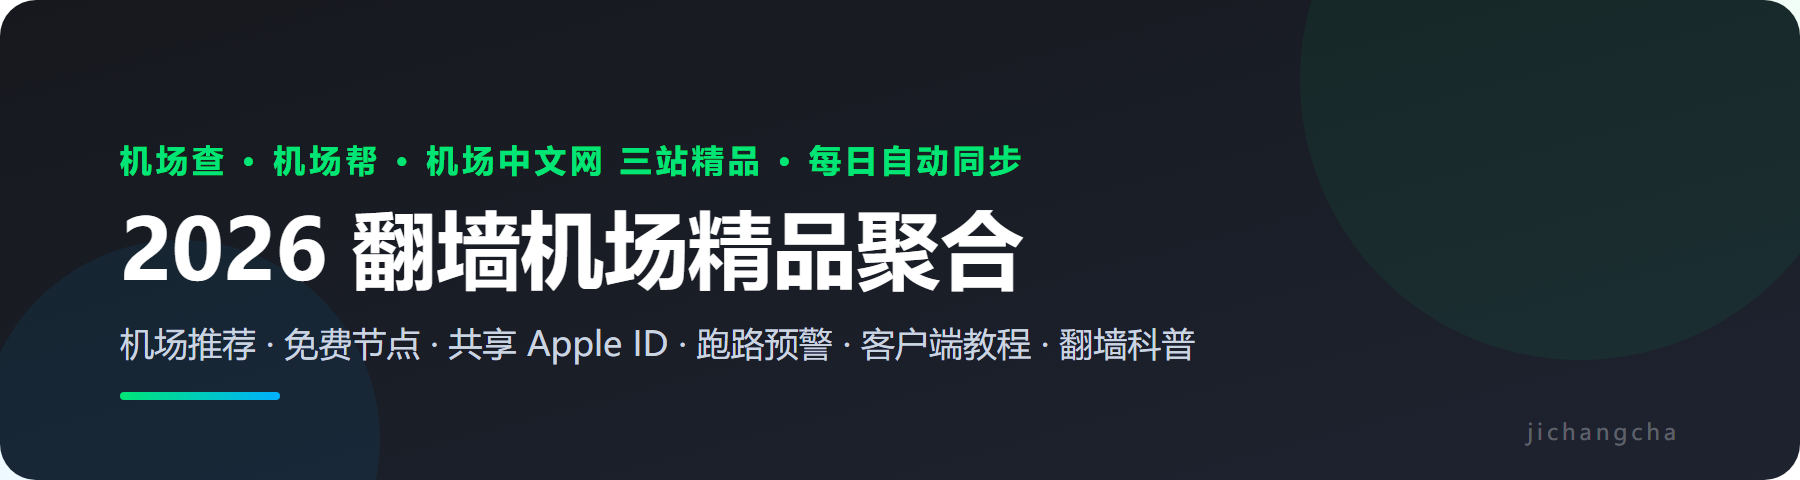
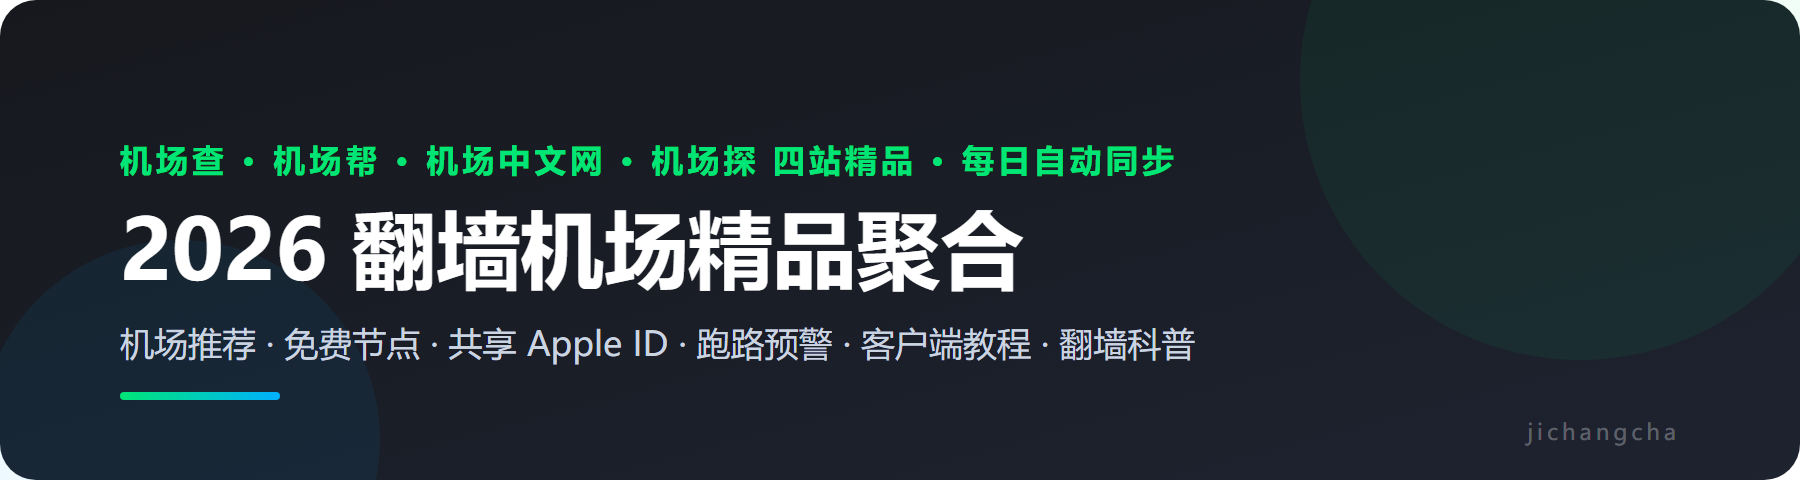
docs: 主页升级为四站精品聚合,接入机场探

Changed region(s): [[0.3422, 0.2812, 0.6533, 0.375]]

diff --git a/README.md b/README.md
@@ -1,10 +1,10 @@
-# 机场推荐 · 免费节点 · 共享 Apple ID · 跑路预警 · 客户端教程 · 翻墙科普｜机场科普与快讯
+# 机场推荐 · 免费节点 · 共享 Apple ID · 跑路预警 · 客户端教程 · 翻墙科普｜四站精品聚合
 
 ![更新](https://img.shields.io/badge/%E6%9B%B4%E6%96%B0-2026--09--16-00e676) ![收录机场](https://img.shields.io/badge/%E6%94%B6%E5%BD%95%E6%9C%BA%E5%9C%BA-32%20%E5%AE%B6-00b0ff) ![今日免费节点](https://img.shields.io/badge/%E4%BB%8A%E6%97%A5%E5%85%8D%E8%B4%B9%E8%8A%82%E7%82%B9-%E7%BA%A6%20319%20%E4%B8%AA-00b0ff) ![共享 Apple ID](https://img.shields.io/badge/%E5%85%B1%E4%BA%AB%20Apple%20ID-30%20%E4%B8%AA-fbbf24) ![跑路预警](https://img.shields.io/badge/%E8%B7%91%E8%B7%AF%E9%A2%84%E8%AD%A6-99%20%E6%9D%A1-f87171) [![Telegram](https://img.shields.io/badge/Telegram-%40jichangcha-26A5E4?logo=telegram&logoColor=white)](https://t.me/jichangcha)
 
 ![2026 翻墙机场精品聚合](banner.png)
 
-这里汇总 **机场查 jichangcha.com、机场帮 jichanghelp.com、机场中文网 jichangcnweb.com** 三个站和 GitHub 仓库里最值得收藏的页面,按七个板块整理。数字、最新文章每天由 GitHub Actions 自动同步,更新日期见顶部徽章。
+这里汇总 **机场查 jichangcha.com、机场帮 jichanghelp.com、机场中文网 jichangcnweb.com、机场探 jichangtan.com** 四个站和 GitHub 仓库里最值得收藏的页面,按七个板块整理。数字、最新文章每天由 GitHub Actions 自动同步,更新日期见顶部徽章。
 
 <a name="repos"></a>
 ## 📦 GitHub 仓库导航
@@ -16,23 +16,24 @@
 | 🍎 [share-apple-id](https://github.com/jichangx/share-apple-id) | 每日共享 Apple ID:免费外区(美区)苹果 ID,小火箭下载可用,每天更新 | 机场中文网 | [![Stars](https://img.shields.io/github/stars/jichangx/share-apple-id?style=social)](https://github.com/jichangx/share-apple-id/stargazers) |
 | 🚨 [airport-status](https://github.com/jichangx/airport-status) | 全网最全最新的机场跑路预警名单,每日更新,下单前先查这家是否跑路 | 机场中文网 | [![Stars](https://img.shields.io/github/stars/jichangx/airport-status?style=social)](https://github.com/jichangx/airport-status/stargazers) |
 | 🥇 [xingdaomeng-jichang](https://github.com/jichangx/xingdaomeng-jichang) | 星岛梦机场怎么样:套餐价格、节点测速、解锁与线路评测 | 机场中文网 | [![Stars](https://img.shields.io/github/stars/jichangx/xingdaomeng-jichang?style=social)](https://github.com/jichangx/xingdaomeng-jichang/stargazers) |
-| 🥈 [jichang-kehuduan](https://github.com/jichangx/jichang-kehuduan) | 全网最全的机场客户端收集 / 下载 / 图文教程 / 客户端科普与快讯(站点上线后同步,敬请期待) | 机场探 | [![Stars](https://img.shields.io/github/stars/jichangx/jichang-kehuduan?style=social)](https://github.com/jichangx/jichang-kehuduan/stargazers) |
+| 🥈 [jichang-kehuduan](https://github.com/jichangx/jichang-kehuduan) | 全网最全的机场客户端收集 / 下载 / 图文教程 / 客户端科普与快讯,90 多款按平台分类,每日同步 | 机场探 | [![Stars](https://img.shields.io/github/stars/jichangx/jichang-kehuduan?style=social)](https://github.com/jichangx/jichang-kehuduan/stargazers) |
 | 📚 [fanqiang-kepu](https://github.com/jichangx/fanqiang-kepu) | 翻墙科普攻略:原理、线路、故障排查、避坑与 AI 工具,每日同步栏目 | 机场中文网 | [![Stars](https://img.shields.io/github/stars/jichangx/fanqiang-kepu?style=social)](https://github.com/jichangx/fanqiang-kepu/stargazers) |
-| 📰 [jichang-kepu-kuaixun](https://github.com/jichangx/jichang-kepu-kuaixun) | 机场科普与快讯:机场杂谈与最新动态,每日同步(机场探上线后合并) | 机场帮 · 机场探 | [![Stars](https://img.shields.io/github/stars/jichangx/jichang-kepu-kuaixun?style=social)](https://github.com/jichangx/jichang-kepu-kuaixun/stargazers) |
+| 📰 [jichang-kepu-kuaixun](https://github.com/jichangx/jichang-kepu-kuaixun) | 机场科普与快讯:机场杂谈、协议与内核科普、客户端版本动态,每日同步 | 机场帮 · 机场探 | [![Stars](https://img.shields.io/github/stars/jichangx/jichang-kepu-kuaixun?style=social)](https://github.com/jichangx/jichang-kepu-kuaixun/stargazers) |
 
 品牌测评仓库:[feimao](https://github.com/jichangx/feimao-jichang) · [weitu](https://github.com/jichangx/weitu-jichang) · [yuzhou](https://github.com/jichangx/yuzhou-jichang) · [guangsu](https://github.com/jichangx/guangsu-jichang) · [u1s1](https://github.com/jichangx/u1s1-jichang) · [jilian](https://github.com/jichangx/jilian-jichang) · [quanqiu](https://github.com/jichangx/quanqiu-jichang) · [guangnian](https://github.com/jichangx/guangnian-jichang) · [yifan](https://github.com/jichangx/yifan-jichang) · [ermao](https://github.com/jichangx/ermao-jichang) · [sogo](https://github.com/jichangx/sogo-jichang) · [edgenova](https://github.com/jichangx/edgenova-jichang) · [kexin](https://github.com/jichangx/kexin-jichang) · [sujie](https://github.com/jichangx/sujie-jichang) · [kuaili](https://github.com/jichangx/kuaili-jichang)
 
-**三个站各管什么**
+**四个站各管什么**
 
 | 站点 | 定位 | 招牌内容 |
 | ---- | ---- | ---- |
 | [机场查 jichangcha.com](https://www.jichangcha.com/) | 机场品牌库与每日数据 | 32 家机场资料页与对比总表 · 每日免费节点 · 共享 Apple ID · 跑路预警 · 189 题问题库 |
 | [机场帮 jichanghelp.com](https://www.jichanghelp.com/) | 机场导航与客户端百科 | 按地区收录的机场导航总表 · 老牌 / 性价比 / 稳定 / 高端四类精选 · 30 款客户端下载与配置 · 术语库 · 故障排查 |
 | [机场中文网 jichangcnweb.com](https://jichangcnweb.com/) | 评测、优惠码与避坑 | 机场评测与优惠码中心 · 20 多篇带截图的客户端教程 · 跑路迹象与避坑指南 · AI 工具攻略 |
+| [机场探 jichangtan.com](https://jichangtan.com/) | 每日测速观察与客户端库 | 今日机场观察与四类推荐 · 90 多款客户端按设备平台分类,官方下载与图文教程 · 协议 / 内核科普 · 客户端版本快讯 · 跑路预警讨论 |
 
 **快速导航**:[🏆 2026 机场推荐](#tuijian) · [🆓 每日免费节点](#free-nodes) · [🍎 每日共享 Apple ID](#apple-id) · [🚨 跑路机场预警](#status) · [📱 2026 最全客户端下载与教程](#clients) · [📚 翻墙科普攻略](#guide) · [📰 机场科普与快讯](#news) · [📦 GitHub 仓库](#repos)
 
-> ⚠ 三个站都区分「站长实测」「官方资料」「公开反馈」与「尚未核验」,推广链接会明示;第一次买机场先月付,任何订阅链接都别外泄。
+> ⚠ 四个站都区分「站长实测」「官方资料」「公开反馈」与「尚未核验」,推广链接会明示;第一次买机场先月付,任何订阅链接都别外泄。
 
 <a name="tuijian"></a>
 ## 🏆 2026 机场推荐
@@ -47,6 +48,8 @@
 - `机场查` [机场品牌库](https://www.jichangcha.com/brands/) —— 每家一个资料页:套餐、优惠、资料口径与实测记录
 - `机场中文网` [2026 机场推荐:稳定、便宜、专线机场整理](https://jichangcnweb.com/airports/) —— 按月更新的筛选表
 - `机场中文网` [机场优惠码大全](https://jichangcnweb.com/coupons/) —— 可用折扣码、适用范围与核验日期
+- `机场探` [今日机场观察与推荐](https://jichangtan.com/) —— 每日测速观察,速度、稳定性、解锁与价格
+- `机场探` [机场详情与套餐](https://jichangtan.com/airports/) —— 每家一页
 
 **按需求挑**
 
@@ -61,6 +64,7 @@
 - `机场中文网` [飞猫云 vs 星岛梦,两家低价专线怎么选](https://jichangcnweb.com/compare/feimaoyun-vs-xingdaomeng/)
 - `机场中文网` [机场推荐专题:按需求选,不看排名看匹配](https://jichangcnweb.com/recommend/)
 - `机场帮` [机场导航总表:按地区收录](https://www.jichanghelp.com/airport-navigation/) —— 收录 41 家品牌
+- `机场探` [性价比 / 老牌 / 高端 / 稳定机场推荐](https://jichangtan.com/recommendations/value/) —— 机场探按每日测速观察给出的四类推荐
 
 <a name="free-nodes"></a>
 ## 🆓 每日免费节点
@@ -95,6 +99,8 @@
 - `机场中文网` [机场跑路前的常见迹象](https://jichangcnweb.com/warnings/signs-before-shutdown/) —— 出现这些信号就该准备撤了
 - `机场中文网` [机场优惠码使用注意事项:折扣背后的五个套路](https://jichangcnweb.com/warnings/coupon-traps/)
 - `机场中文网` [机场购买避坑指南](https://jichangcnweb.com/warnings/)
+- `机场探` [跑路预警讨论:每家一页社区反馈与风险资料](https://jichangtan.com/alerts/)
+- `机场探` [如何留意机场的经营风险信号](https://jichangtan.com/articles/airport-risk-signals/)
 - `机场帮` [超售是什么意思:低价套餐背后的物理边界](https://www.jichanghelp.com/glossary/overselling/)
 - `机场帮` [同源站群是什么意思:识别方法与备份陷阱](https://www.jichanghelp.com/glossary/same-origin-brands/)
 - `机场帮` [怎么自己核验一家机场:年限、曾用名与同源关系](https://www.jichanghelp.com/articles/how-we-verify-brands/)
@@ -102,7 +108,7 @@
 <a name="guide"></a>
 ## 📚 翻墙科普攻略
 
-从"机场是什么"到"怎么测速、怎么防泄漏",三个站各写了一套,按主题挑最合适的那篇。
+从"机场是什么"到"怎么测速、怎么防泄漏",四个站各写了一套,按主题挑最合适的那篇。
 
 **入门**
 
@@ -113,6 +119,7 @@
 - `机场查` [新手科学上网专题](https://www.jichangcha.com/topics/xinshou-kexue-shangwang/)
 - `机场帮` [机场代理基础知识主题](https://www.jichanghelp.com/topics/airport-basics/)
 - `机场中文网` [翻墙科普:原理、故障排查与 AI 工具](https://jichangcnweb.com/learn/)
+- `机场探` [机场是什么:订阅、节点、倍率与流量怎么理解](https://jichangtan.com/articles/airport-basics/)
 
 **选购与算账**
 
@@ -133,6 +140,9 @@
 - `机场帮` [机场稳定性怎么测:可复现的观察方法](https://www.jichanghelp.com/articles/stability-testing-method/)
 - `机场中文网` [晚高峰速度慢的常见原因与排查](https://jichangcnweb.com/troubleshooting/slow-evening-peak/)
 - `机场中文网` [机场测速与评测方法说明](https://jichangcnweb.com/testing-methodology/)
+- `机场探` [怎么看机场测速数据:延迟、可用性与下载速度](https://jichangtan.com/articles/read-speed-test-data/)
+- `机场探` [机场常见代理协议怎么区分:SS / VMess / VLESS / Trojan / Hysteria 2 / TUIC / AnyTLS](https://jichangtan.com/articles/proxy-protocols-overview/)
+- `机场探` [代理内核是什么:内核、客户端与订阅格式的关系](https://jichangtan.com/articles/what-is-proxy-core/)
 
 **术语与问答**
 
@@ -154,11 +164,12 @@
 <a name="clients"></a>
 ## 📱 2026 最全客户端下载与教程
 
-下载与介绍看机场帮的客户端总表,带截图的配置教程看机场中文网,系统级痛点看机场查。
+最全的客户端库在机场探,按设备和平台找,90 多款;带截图的配置教程看机场中文网,下载总表看机场帮,系统级痛点看机场查。
 
 **总入口**
 
-- `GitHub` [客户端下载与教程仓库 · jichang-kehuduan](https://github.com/jichangx/jichang-kehuduan) —— 全网最全的客户端收集 / 下载 / 图文教程 / 快讯,内容来自机场探,站点上线后同步
+- `机场探` [机场客户端下载与教程:按设备和平台选择](https://jichangtan.com/clients/) —— 90 多款客户端,官方下载、维护状态与原创教程
+- `GitHub` [客户端下载与教程仓库 · jichang-kehuduan](https://github.com/jichangx/jichang-kehuduan) —— 机场探客户端库的 GitHub 镜像,每日同步
 - `机场帮` [全平台机场客户端下载与配置总表](https://www.jichanghelp.com/clients/) —— 30 款客户端,一页下完
 - `机场中文网` [客户端安装与配置教程(按平台分类)](https://jichangcnweb.com/tutorials/)
 - `机场中文网` [代理客户端官方下载地址汇总](https://jichangcnweb.com/download/)
@@ -183,50 +194,53 @@
 
 | 客户端 | 下载与介绍 | 图文教程 |
 | ---- | ---- | ---- |
-| Clash Verge Rev | [下载与介绍](https://www.jichanghelp.com/clients/clash-verge-rev-windows/) | [机场中文网](https://jichangcnweb.com/tutorials/clash-verge-windows/) · [进阶:链式代理与内核切换](https://jichangcnweb.com/tutorials/clash-verge-rev-advanced/) · [机场查:Clash 机场推荐](https://www.jichangcha.com/blog/clash-jichang-tuijian/) |
-| v2rayN | [下载与介绍](https://www.jichanghelp.com/clients/v2rayn-windows/) | [机场中文网](https://jichangcnweb.com/tutorials/v2rayn-windows/) · [手动添加节点](https://jichangcnweb.com/tutorials/v2rayn-manual-nodes/) · [机场查:v2rayN 机场推荐](https://www.jichangcha.com/blog/v2rayn-jichang-tuijian/) |
-| FlClash | [下载与介绍](https://www.jichanghelp.com/clients/flclash-windows/) | [机场中文网](https://jichangcnweb.com/tutorials/flclash/) |
-| Clash Party(原 Mihomo Party) | [下载与介绍](https://www.jichanghelp.com/clients/mihomo-party-windows/) | [机场中文网](https://jichangcnweb.com/tutorials/clash-party/) |
+| Clash Verge Rev | [下载与介绍](https://www.jichanghelp.com/clients/clash-verge-rev-windows/) | [机场探](https://jichangtan.com/tutorials/clash-verge-rev-windows/) · [机场中文网](https://jichangcnweb.com/tutorials/clash-verge-windows/) · [进阶:链式代理与内核切换](https://jichangcnweb.com/tutorials/clash-verge-rev-advanced/) · [机场查:Clash 机场推荐](https://www.jichangcha.com/blog/clash-jichang-tuijian/) |
+| v2rayN | [下载与介绍](https://www.jichanghelp.com/clients/v2rayn-windows/) | [机场探](https://jichangtan.com/tutorials/v2rayn-windows/) · [机场中文网](https://jichangcnweb.com/tutorials/v2rayn-windows/) · [手动添加节点](https://jichangcnweb.com/tutorials/v2rayn-manual-nodes/) · [机场查:v2rayN 机场推荐](https://www.jichangcha.com/blog/v2rayn-jichang-tuijian/) |
+| FlClash | [下载与介绍](https://www.jichanghelp.com/clients/flclash-windows/) | [机场探](https://jichangtan.com/tutorials/flclash-windows/) · [机场中文网](https://jichangcnweb.com/tutorials/flclash/) |
+| Clash Party(原 Mihomo Party) | [下载与介绍](https://www.jichanghelp.com/clients/mihomo-party-windows/) | [机场探](https://jichangtan.com/tutorials/mihomo-party-windows/) · [机场中文网](https://jichangcnweb.com/tutorials/clash-party/) |
 | ClashMi | — | [机场中文网](https://jichangcnweb.com/tutorials/clashmi-windows/) |
-| NekoRay | [下载与介绍](https://www.jichanghelp.com/clients/nekoray-windows/) | — |
+| NekoRay | [下载与介绍](https://www.jichanghelp.com/clients/nekoray-windows/) | [机场探](https://jichangtan.com/tutorials/nekoray-windows/) |
 | Clash for Windows(已停更) | [下载与介绍](https://www.jichanghelp.com/clients/clash-for-windows/) | [停更客户端现状](https://www.jichanghelp.com/articles/discontinued-clients/) |
 
 **macOS**
 
 | 客户端 | 下载与介绍 | 图文教程 |
 | ---- | ---- | ---- |
-| Clash Verge Rev | [下载与介绍](https://www.jichanghelp.com/clients/clash-verge-rev-macos/) | [机场中文网(含 macOS)](https://jichangcnweb.com/tutorials/clash-verge-windows/) |
-| FlClash | [下载与介绍](https://www.jichanghelp.com/clients/flclash-macos/) | [机场中文网](https://jichangcnweb.com/tutorials/flclash/) |
+| Clash Verge Rev | [下载与介绍](https://www.jichanghelp.com/clients/clash-verge-rev-macos/) | [机场探](https://jichangtan.com/tutorials/clash-verge-rev-macos/) · [机场中文网(含 macOS)](https://jichangcnweb.com/tutorials/clash-verge-windows/) |
+| FlClash | [下载与介绍](https://www.jichanghelp.com/clients/flclash-macos/) | [机场探](https://jichangtan.com/tutorials/flclash-macos/) · [机场中文网](https://jichangcnweb.com/tutorials/flclash/) |
+| Stash / Surge(macOS) | — | [机场探:Stash](https://jichangtan.com/tutorials/stash-macos/) · [机场探:Surge](https://jichangtan.com/tutorials/surge-macos/) |
+| v2rayN(macOS) | — | [机场探](https://jichangtan.com/tutorials/v2rayn-macos/) |
 | Sparkle | [下载与介绍](https://www.jichanghelp.com/clients/sparkle-macos/) | — |
 
 **Linux**
 
 | 客户端 | 下载与介绍 | 图文教程 |
 | ---- | ---- | ---- |
-| Clash Verge Rev | [下载与介绍](https://www.jichanghelp.com/clients/clash-verge-rev-linux/) | [机场中文网(含 Linux)](https://jichangcnweb.com/tutorials/clash-verge-windows/) |
-| FlClash | [下载与介绍](https://www.jichanghelp.com/clients/flclash-linux/) | [机场中文网](https://jichangcnweb.com/tutorials/flclash/) |
+| Clash Verge Rev | [下载与介绍](https://www.jichanghelp.com/clients/clash-verge-rev-linux/) | [机场探](https://jichangtan.com/tutorials/clash-verge-rev-linux/) · [机场中文网(含 Linux)](https://jichangcnweb.com/tutorials/clash-verge-windows/) |
+| FlClash | [下载与介绍](https://www.jichanghelp.com/clients/flclash-linux/) | [机场探](https://jichangtan.com/tutorials/flclash-linux/) · [机场中文网](https://jichangcnweb.com/tutorials/flclash/) |
+| Mihomo Party(Linux) | — | [机场探](https://jichangtan.com/tutorials/mihomo-party-linux/) |
 
 **Android**
 
 | 客户端 | 下载与介绍 | 图文教程 |
 | ---- | ---- | ---- |
-| Clash Meta for Android | [下载与介绍](https://www.jichanghelp.com/clients/clash-meta-for-android/) | [机场中文网](https://jichangcnweb.com/tutorials/clash-meta-android/) · [机场帮:Android 配置](https://www.jichanghelp.com/articles/android-client-setup/) |
-| v2rayNG | [下载与介绍](https://www.jichanghelp.com/clients/v2rayng-android/) | [机场中文网](https://jichangcnweb.com/tutorials/v2rayng-android/) |
-| FlClash | [下载与介绍](https://www.jichanghelp.com/clients/flclash-android/) | [机场中文网](https://jichangcnweb.com/tutorials/flclash/) |
-| Surfboard | [下载与介绍](https://www.jichanghelp.com/clients/surfboard-android/) | [机场中文网](https://jichangcnweb.com/tutorials/surfboard-android/) |
+| Clash Meta for Android | [下载与介绍](https://www.jichanghelp.com/clients/clash-meta-for-android/) | [机场探](https://jichangtan.com/tutorials/clash-meta-for-android-android/) · [机场中文网](https://jichangcnweb.com/tutorials/clash-meta-android/) · [机场帮:Android 配置](https://www.jichanghelp.com/articles/android-client-setup/) |
+| v2rayNG | [下载与介绍](https://www.jichanghelp.com/clients/v2rayng-android/) | [机场探](https://jichangtan.com/tutorials/v2rayng-android/) · [机场中文网](https://jichangcnweb.com/tutorials/v2rayng-android/) |
+| FlClash | [下载与介绍](https://www.jichanghelp.com/clients/flclash-android/) | [机场探](https://jichangtan.com/tutorials/flclash-android/) · [机场中文网](https://jichangcnweb.com/tutorials/flclash/) |
+| Surfboard | [下载与介绍](https://www.jichanghelp.com/clients/surfboard-android/) | [机场探](https://jichangtan.com/tutorials/surfboard-android/) · [机场中文网](https://jichangcnweb.com/tutorials/surfboard-android/) |
 | Clash for Android(已停更) | [下载与介绍](https://www.jichanghelp.com/clients/clash-for-android/) | — |
 
 **iOS**
 
 | 客户端 | 下载与介绍 | 图文教程 |
 | ---- | ---- | ---- |
-| Shadowrocket(小火箭) | [下载与介绍](https://www.jichanghelp.com/clients/shadowrocket-ios/) | [机场中文网](https://jichangcnweb.com/tutorials/shadowrocket-ios/) · [机场查:小火箭机场推荐](https://www.jichangcha.com/blog/shadowrocket-jichang-tuijian/) · [共享 Apple ID 下载](https://www.jichangcha.com/share-id/) |
-| Stash | [下载与介绍](https://www.jichanghelp.com/clients/stash-ios/) | [机场中文网](https://jichangcnweb.com/tutorials/stash-ios/) |
-| Quantumult X | [下载与介绍](https://www.jichanghelp.com/clients/quantumult-x-ios/) | [机场中文网](https://jichangcnweb.com/tutorials/quantumultx-ios/) |
-| Surge | — | [机场中文网](https://jichangcnweb.com/tutorials/surge-ios/) |
+| Shadowrocket(小火箭) | [下载与介绍](https://www.jichanghelp.com/clients/shadowrocket-ios/) | [机场探](https://jichangtan.com/tutorials/shadowrocket-ios/) · [机场中文网](https://jichangcnweb.com/tutorials/shadowrocket-ios/) · [机场查:小火箭机场推荐](https://www.jichangcha.com/blog/shadowrocket-jichang-tuijian/) · [共享 Apple ID 下载](https://www.jichangcha.com/share-id/) |
+| Stash | [下载与介绍](https://www.jichanghelp.com/clients/stash-ios/) | [机场探](https://jichangtan.com/tutorials/stash-ios/) · [机场中文网](https://jichangcnweb.com/tutorials/stash-ios/) |
+| Quantumult X | [下载与介绍](https://www.jichanghelp.com/clients/quantumult-x-ios/) | [机场探](https://jichangtan.com/tutorials/quantumult-x-ios/) · [机场中文网](https://jichangcnweb.com/tutorials/quantumultx-ios/) |
+| Surge | — | [机场探](https://jichangtan.com/tutorials/surge-ios/) · [机场中文网](https://jichangcnweb.com/tutorials/surge-ios/) |
 | sing-box | — | [机场中文网](https://jichangcnweb.com/tutorials/singbox-ios/) |
 | ClashMi | [下载与介绍](https://www.jichanghelp.com/clients/clashmi-ios/) | [机场中文网](https://jichangcnweb.com/tutorials/clashmi-ios/) |
-| Potatso | [下载与介绍](https://www.jichanghelp.com/clients/potatso-lite-ios/) | [机场中文网](https://jichangcnweb.com/tutorials/potatso-ios/) |
+| Potatso | [下载与介绍](https://www.jichanghelp.com/clients/potatso-lite-ios/) | [机场探](https://jichangtan.com/tutorials/potatso-lite-ios/) · [机场中文网](https://jichangcnweb.com/tutorials/potatso-ios/) |
 | Everywhere | [下载与介绍](https://www.jichanghelp.com/clients/everywhere-ios/) | [iOS 客户端怎么选](https://www.jichanghelp.com/articles/ios-client-comparison/) |
 
 **HarmonyOS 鸿蒙**
@@ -240,15 +254,15 @@
 
 | 客户端 | 下载与介绍 | 图文教程 |
 | ---- | ---- | ---- |
-| OpenClash(OpenWrt) | [下载与介绍](https://www.jichanghelp.com/clients/openclash-openwrt/) | [机场中文网](https://jichangcnweb.com/tutorials/openclash-openwrt/) |
-| PassWall 2(OpenWrt) | — | [机场中文网](https://jichangcnweb.com/tutorials/passwall2-openwrt/) |
+| OpenClash(OpenWrt) | [下载与介绍](https://www.jichanghelp.com/clients/openclash-openwrt/) | [机场探](https://jichangtan.com/tutorials/openclash-openwrt/) · [机场中文网](https://jichangcnweb.com/tutorials/openclash-openwrt/) |
+| PassWall 2(OpenWrt) | — | [机场探](https://jichangtan.com/tutorials/passwall2-openwrt/) · [机场中文网](https://jichangcnweb.com/tutorials/passwall2-openwrt/) |
 | ShellCrash(路由 / Magisk) | [下载与介绍](https://www.jichanghelp.com/clients/shellcrash-router/) | [Magisk 版](https://www.jichanghelp.com/clients/shellcrash-magisk/) |
 | DeckyClash(SteamOS) | [下载与介绍](https://www.jichanghelp.com/clients/deckyclash-steamos/) | — |
 
 <a name="news"></a>
 ## 📰 机场科普与快讯
 
-三个站的最新文章每天自动同步到下面;优惠码和跑路名单的变动会先到 TG 频道。
+四个站的最新文章每天自动同步到下面;优惠码和跑路名单的变动会先到 TG 频道。
 
 **机场查 最新文章**
 
@@ -274,9 +288,19 @@
 - `机场帮` [节点列表里的网址是什么，选中为什么连不上](https://www.jichanghelp.com/articles/fake-nodes-in-list/) · 2026-08-13
 - `机场帮` [节点名字里那串符号各是什么意思](https://www.jichanghelp.com/articles/how-to-read-node-names/) · 2026-08-13
 
+**机场探 最新动态**
+
+- `机场探` [Quantumult X 1.8.0 发布：针对 iOS 27 优化，最低系统要求提高到 iOS 15](https://jichangtan.com/articles/quantumult-x-1-8-0/)
+- `机场探` [mihomo v1.19.31 发布：新增 EasyTier 出站，修复 Hysteria 与 Hysteria2 的 UDP 问题](https://jichangtan.com/articles/mihomo-v1-19-31/)
+- `机场探` [Surge 5.22.1（iOS）发布：GEOIP 与 IP-ASN 规则支持 UNKNOWN，修复 Hysteria UDP 转发异常](https://jichangtan.com/articles/surge-5-22-1/)
+- `机场探` [FlClash v0.8.97 发布：界面、安卓 VPN 服务与桌面端大范围重构，新增可选的本地代理认证](https://jichangtan.com/articles/flclash-v0-8-97/)
+- `机场探` [Shadowrocket 2.2.92 发布：新增 Sudoku 协议，扩充 DNS 与 Tailscale 功能，可导入更多类型的 Clash 订阅节点](https://jichangtan.com/articles/shadowrocket-2-2-92/)
+
 **固定栏目**
 
-- `GitHub` [机场科普与快讯仓库 · jichang-kepu-kuaixun](https://github.com/jichangx/jichang-kepu-kuaixun) —— 机场帮「机场杂谈」+ 最新文章,每日同步;机场探上线后合并
+- `GitHub` [机场科普与快讯仓库 · jichang-kepu-kuaixun](https://github.com/jichangx/jichang-kepu-kuaixun) —— 机场帮「机场杂谈」+ 机场探科普与快讯,每日同步
+- `机场探` [机场探科普与快讯:测速知识、客户端与行业观察](https://jichangtan.com/articles/)
+- `机场探` [客户端版本动态](https://jichangtan.com/articles/category/news/)
 - `机场查` [机场优惠码大全(月更)](https://www.jichangcha.com/blog/jichang-youhuima/)
 - `机场中文网` [优惠码中心](https://jichangcnweb.com/coupons/)
 - `机场帮` [机场杂谈:那些没人明说的机场常识](https://www.jichanghelp.com/category/airport-talk/)
@@ -293,8 +317,8 @@
 
 ## 📌 声明
 
-- 三个站各自独立运营,内容口径见各站说明:[机场查 关于](https://www.jichangcha.com/about/) · [机场帮 编辑政策](https://www.jichanghelp.com/editorial-policy/) · [机场中文网 编辑原则](https://jichangcnweb.com/editorial-policy/)
-- 本页由 GitHub Actions 每日自动生成:数字来自机场查公开数据端点,最近更新来自各站 RSS;链接清单在 [hub.config.mjs](hub.config.mjs)
+- 四个站各自独立运营,内容口径见各站说明:[机场查 关于](https://www.jichangcha.com/about/) · [机场帮 编辑政策](https://www.jichanghelp.com/editorial-policy/) · [机场中文网 编辑原则](https://jichangcnweb.com/editorial-policy/) · [机场探 编辑、推荐与更正政策](https://jichangtan.com/editorial-policy/)
+- 本页由 GitHub Actions 每日自动生成:数字来自机场查公开数据端点,最近更新来自各站 RSS 与栏目页;链接清单在 [hub.config.mjs](hub.config.mjs)
 - 部分链接为推广链接,可能为我们带来收益,不影响收录与排序;内容仅供学习交流,请遵守当地法律法规
 - 反馈:[Issues](https://github.com/jichangx/jichangx/issues) · Telegram [@jichangcha_chat](https://t.me/jichangcha_chat)
 
